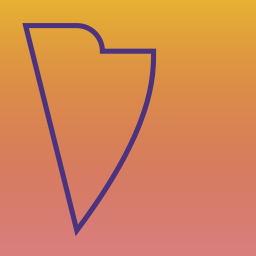
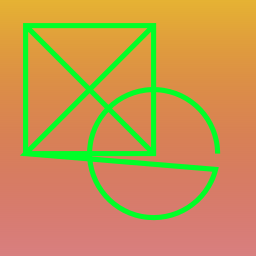
made square with cairo

Changed region(s): [[0.0625, 0.0625, 0.875, 0.9375]]

diff --git a/testing/pycairo_usage.py b/testing/pycairo_usage.py
@@ -21,21 +21,33 @@ context.rectangle(0, 0, 1, 1)
 context.set_source(pat)
 context.fill()
 
-context.translate(0.1, 0.1)
+context.translate(0.1, 0.1) #mane koi theke drawing start
 
 context.move_to(0, 0)
 
-context.arc(0.2, 0.1, 0.1, -math.pi / 2, 0)
+# context.arc(0.2, 0.1, 0.1, -math.pi / 2, 0)
 # Arc(cx, cy, radius, start_angle, stop_angle)
 
-context.line_to(0.5, 0.1)  # Line to (x,y)
+# context.line_to(0.5, 0.1)  # Line to (x,y)
 
 # Curve(x1, y1, x2, y2, x3, y3)
-context.curve_to(0.5, 0.2, 0.5, 0.4, 0.2, 0.8)
+# context.curve_to(0.5, 0.2, 0.5, 0.4, 0.2, 0.8)
+# context.close_path()
+
+
+#making a square
+context.line_to(0.5, 0)
+context.line_to(0.5, 0.5)
+context.line_to(0, 0.5)
 context.close_path()
+context.line_to(0.5, 0.5)
+context.move_to(0.5, 0)
+context.line_to(0, 0.5)
+context.arc(0.5, 0.5, 0.25, 0.25, 0)
 
 
-context.set_source_rgb(0.3, 0.2, 0.5)  # Solid color
+
+context.set_source_rgb(0.0, 1.0, 0.16)  # Solid color
 context.set_line_width(0.02)
 context.stroke()
 
